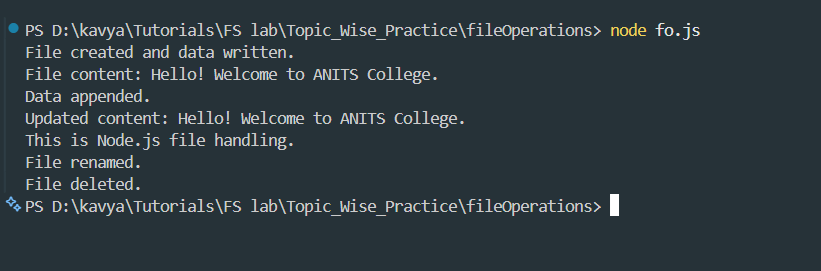
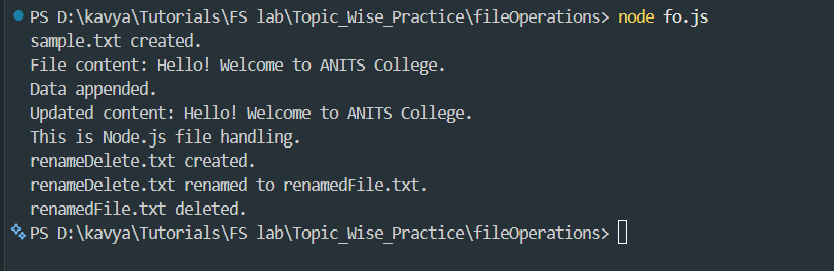
added

Changed region(s): [[0.0, 0.0295, 0.8526, 0.6199], [0.0, 0.7085, 0.7613, 0.9151], [0.0305, 0.6494, 0.5177, 0.7085]]

diff --git a/Topic_Wise_Practice/fileOperations/fo.js b/Topic_Wise_Practice/fileOperations/fo.js
@@ -1,8 +1,8 @@
 const fs = require('fs');
 
-// 1. Write/Create file
+// 1. Create / Write file
 fs.writeFileSync('sample.txt', 'Hello! Welcome to ANITS College.');
-console.log('File created and data written.');
+console.log('sample.txt created.');
 
 // 2. Read file
 let data = fs.readFileSync('sample.txt', 'utf8');
@@ -16,10 +16,17 @@ console.log('Data appended.');
 data = fs.readFileSync('sample.txt', 'utf8');
 console.log('Updated content:', data);
 
-// 5. Rename file
-fs.renameSync('sample.txt', 'newSample.txt');
-console.log('File renamed.');
+// 5. Create a new file
+fs.writeFileSync(
+    'renameDelete.txt',
+    'This file is for rename and delete operations.'
+);
+console.log('renameDelete.txt created.');
 
-// 6. Delete file
-fs.unlinkSync('newSample.txt');
-console.log('File deleted.');
+// 6. Rename the file
+fs.renameSync('renameDelete.txt', 'renamedFile.txt');
+console.log('renameDelete.txt renamed to renamedFile.txt.');
+
+// 7. Delete the renamed file
+fs.unlinkSync('renamedFile.txt');
+console.log('renamedFile.txt deleted.');
